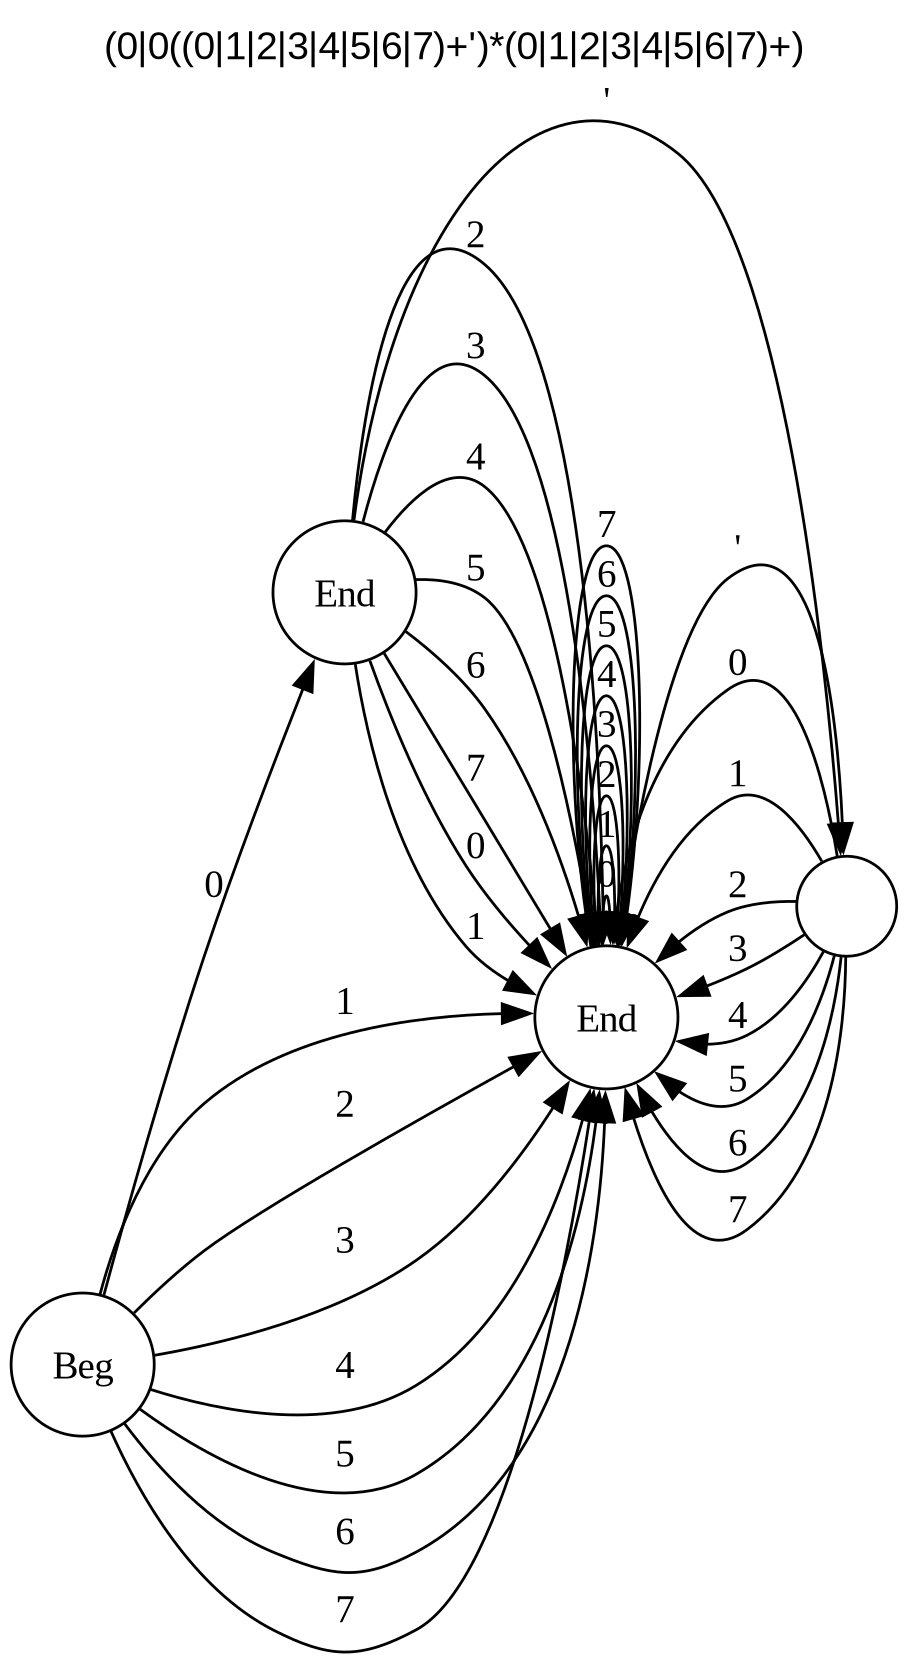
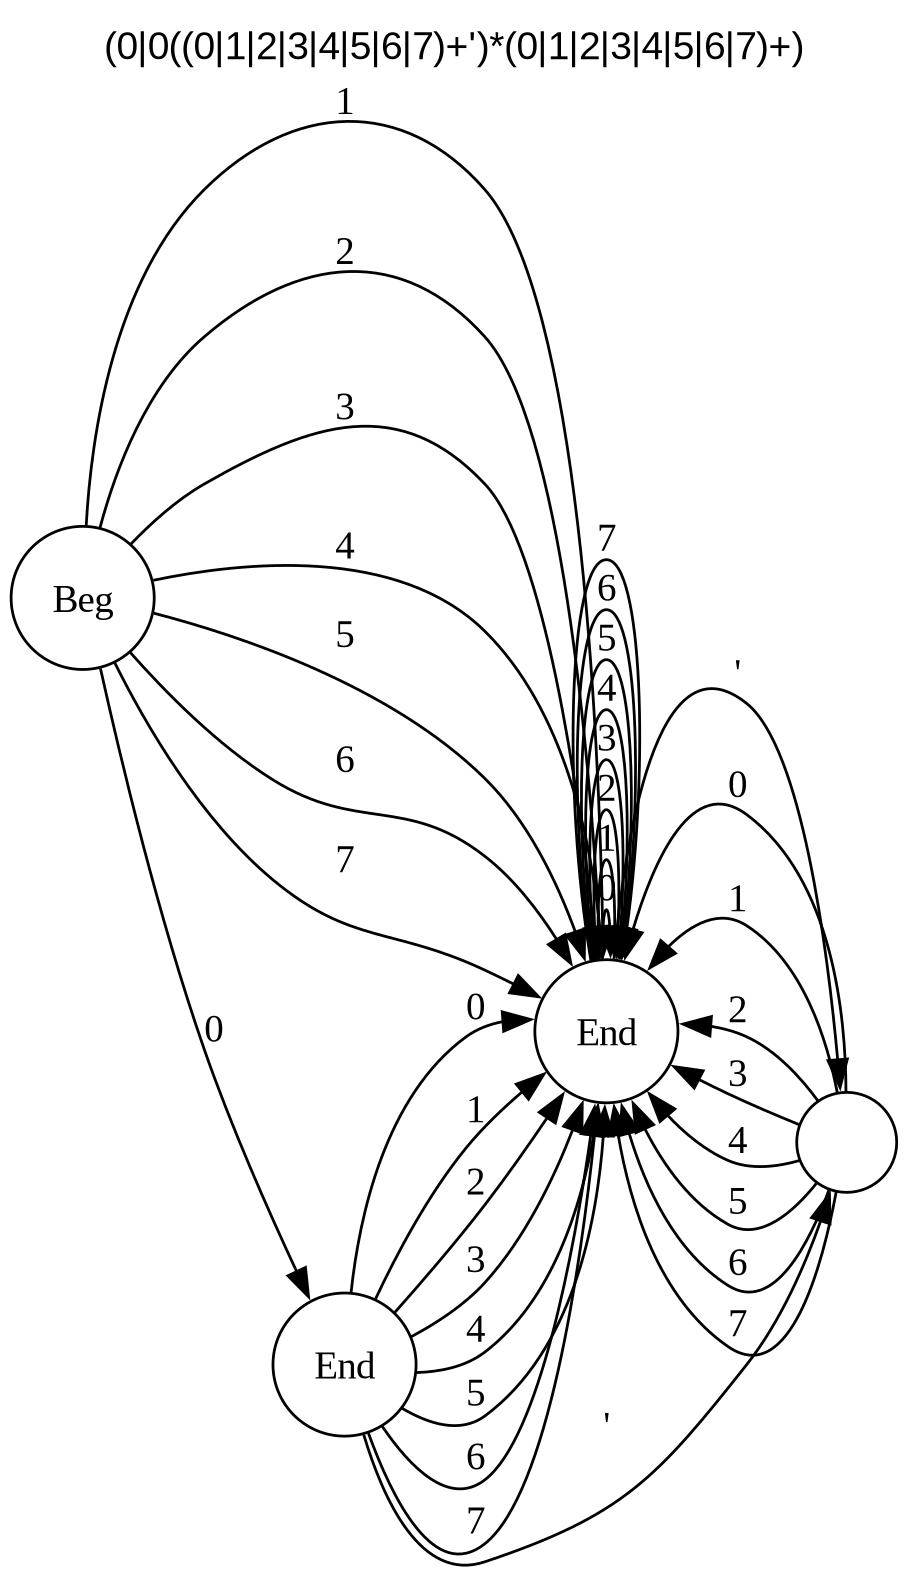
Polish

diff --git a/regex_main.cpp b/regex_main.cpp
@@ -4,10 +4,11 @@ Jordan Dehmel, 2024
 jdehmel@outlook.com
 */
 
-#define SAVEFIGPATH "regex_dots/"
-#define SAVEFIG
+// #define SAVEFIGPATH "regex_dots/"
+// #define SAVEFIG
 
 #include "regex.hpp"
+#include "regex_manager.hpp"
 #include <chrono>
 #include <initializer_list>
 #include <iostream>
@@ -17,11 +18,7 @@ namespace clk = std::chrono;
 ////////////////////////////////////////////////////////////////
 // Regex Macros
 
-#define D "(0|1|2|3|4|5|6|7|8|9)"
-#define W                                                      \
-    "(a|b|c|d|e|f|g|h|i|j|k|l|m|n|o|p|q|r|s|t|u|v|w|x|y|z|A|"  \
-    "B|C|D|E|F|G|H|I|J|K|L|M|N|O|P|Q|R|S|T|U|V|W|X|Y|Z)"
-#define S "( |\t|\n)"
+static RegexManager re_manager;
 
 #define H "(a|b|c|d|e|f|A|B|C|D|E|F|0|1|2|3|4|5|6|7|8|9)"
 #define O "(0|1|2|3|4|5|6|7)"
@@ -29,9 +26,9 @@ namespace clk = std::chrono;
 #define HEX_RE "0(x|X)(" H "+')*" H "+"
 #define OCTAL_RE "(0|0(" O "+')*" O "+)"
 #define BINARY_RE "0(b|B)((0|1)+')*(0|1)+"
-#define DECIMAL_RE "-?(1|2|3|4|5|6|7|8|9)(" D "+')*" D "+"
-#define INT_RE                                                 \
-    "(" HEX_RE "|" DECIMAL_RE "|" OCTAL_RE "|" BINARY_RE ")"
+#define DECIMAL_RE "-?(1|2|3|4|5|6|7|8|9)(\\d+')*\\d+"
+
+#define INT_RE "(#{hex}|#{dec}|#{oct}|#{bin})"
 
 ////////////////////////////////////////////////////////////////
 // Helper function(s)
@@ -52,7 +49,7 @@ void test_regex(
 
     // Compile
     start = clk::high_resolution_clock::now();
-    RegEx pattern = compile_regex(_pattern);
+    RegEx pattern = re_manager.create_regex(_pattern);
     end = clk::high_resolution_clock::now();
     compilation_us =
         clk::duration_cast<clk::microseconds>(end - start)
@@ -122,17 +119,22 @@ void test_regex(
 
 int main()
 {
+    re_manager.register_substitution("#{bin}", BINARY_RE);
+    re_manager.register_substitution("#{oct}", OCTAL_RE);
+    re_manager.register_substitution("#{dec}", DECIMAL_RE);
+    re_manager.register_substitution("#{hex}", HEX_RE);
+
     test_regex("a*b+c?d", {"bbd", "aaaabcd"}, {"aaacd", "abc"});
 
-    test_regex(D "+", {"123", "09876"}, {"", "123abc"});
+    test_regex("\\d+", {"123", "09876"}, {"", "123abc"});
 
-    test_regex(W "+", {"foobar", "BobErt"}, {"greg123"});
+    test_regex("\\w+", {"foobar", "BobErt"}, {"greg123"});
 
-    test_regex(W "+" S W "+", {"foo bbbar", "BobErt ROCKS"},
+    test_regex("\\w+\\s\\w+", {"foo bbbar", "BobErt ROCKS"},
                {"foobar", "foo ", " foo", "greg 123"});
 
     // Email example
-    test_regex("(" W "|" D ")+@" W "+\\." W "+",
+    test_regex("(\\w|\\d)+@\\w+\\.\\w+",
                {"jdehmel@outlook.com", "a@b.c"},
                {"jdehmel@foobar@outlook.com", "1@2.c.d",
                 "jedehmel@ outlook. com"});

diff --git a/regex_manager.hpp b/regex_manager.hpp
@@ -1,0 +1,87 @@
+/*
+Defines the RegexManager class.
+*/
+
+#pragma once
+
+#include "regex.hpp"
+#include <map>
+#include <string>
+
+/*
+Performs substitutions and composition for regular expressions.
+This is a factory for regular expressions which keeps an
+internal bank of named substitutions; When a regular expression
+is requested, it performs any necessary substitutions.
+*/
+class RegexManager
+{
+  public:
+    RegexManager()
+    {
+        register_substitution("\\d", "(0|1|2|3|4|5|6|7|8|9)");
+        register_substitution(
+            "\\w", "(a|b|c|d|e|f|g|h|i|j|k|l|m|n|o|p|q|r|s|t|u|"
+                   "v|w|x|y|z|A|B|C|D|E|F|G|H|I|J|K|L|M|N|O|P|"
+                   "Q|R|S|T|U|V|W|X|Y|Z)");
+        register_substitution("\\s", "( |\t|\n)");
+    }
+
+    // Registers a substituion under the given name. Any time a
+    // future pattern uses the name, it will be replaced by the
+    // value.
+    void register_substitution(const std::string &_name,
+                               const std::string &_value)
+    {
+        substitutions[_name] = perform_substitutions(_value);
+    }
+
+    // Compile a regular expression.
+    RegEx create_regex(const std::string &_pattern)
+    {
+        return compile_regex(
+            perform_substitutions(_pattern).c_str());
+    }
+
+    // Compiler a regular expression and register it as a
+    // substitution.
+    RegEx create_regex(const std::string &_name,
+                       const std::string &_pattern)
+    {
+        register_substitution(_name, _pattern);
+        return create_regex(substitutions[_name]);
+    }
+
+    const std::map<const std::string, std::string>
+    get_substitutions() const
+    {
+        return substitutions;
+    }
+
+  protected:
+    std::string perform_substitutions(
+        const std::string &_on) const
+    {
+        std::string out = _on;
+        bool done = false;
+        size_t it;
+
+        while (!done)
+        {
+            done = true;
+            for (const auto &p : substitutions)
+            {
+                it = out.find(p.first);
+                if (it != std::string::npos)
+                {
+                    done = false;
+                    out.replace(it, p.first.size(), p.second);
+                }
+            }
+        }
+
+        return out;
+    }
+
+    std::map<const std::string, std::string> substitutions;
+};
